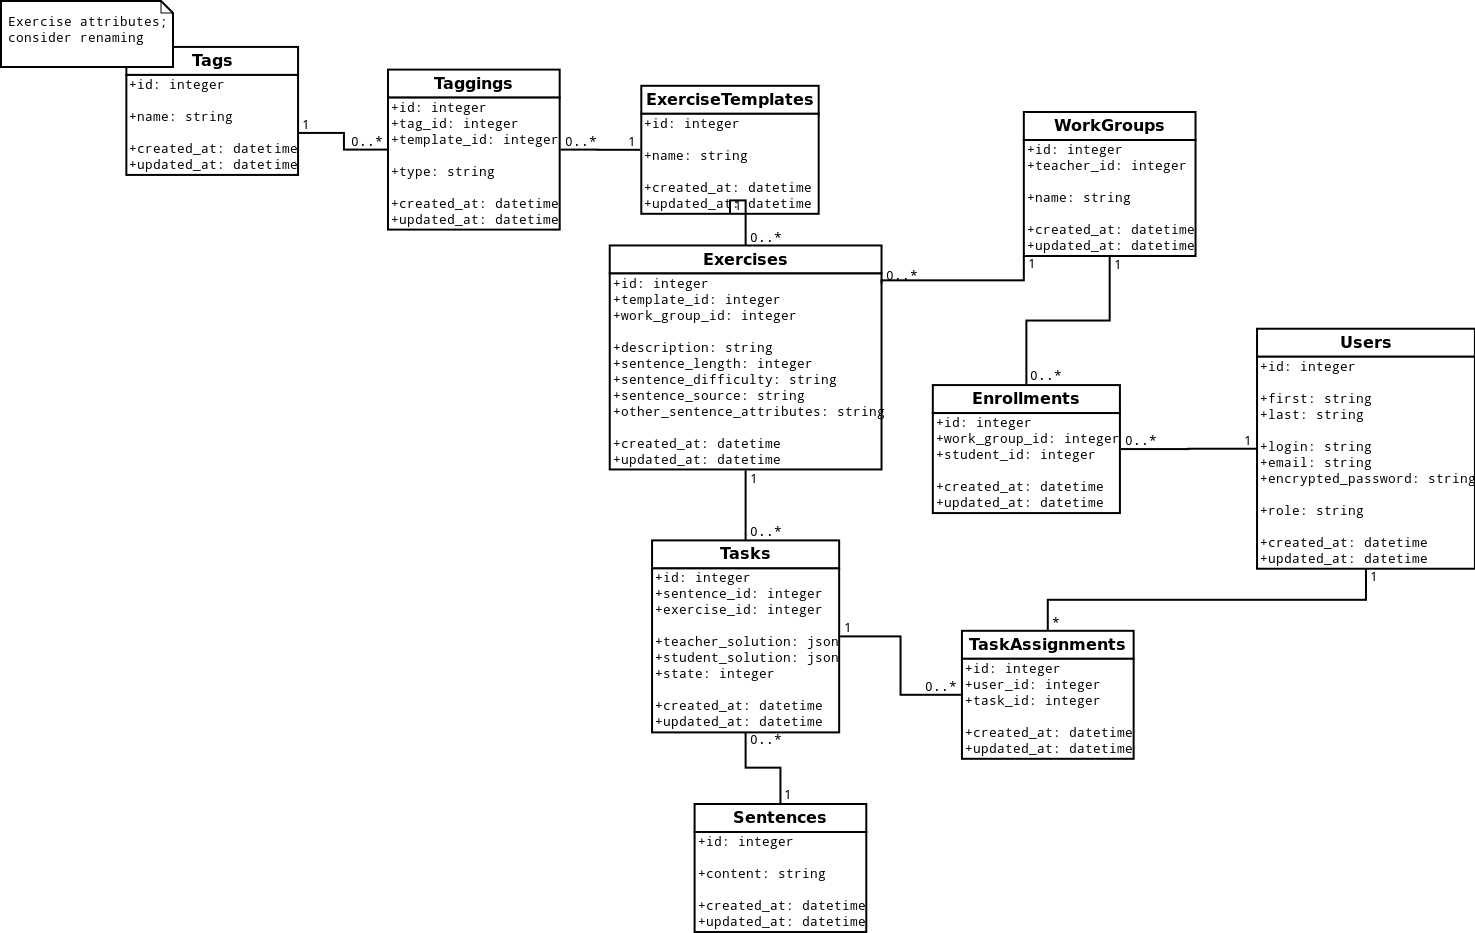
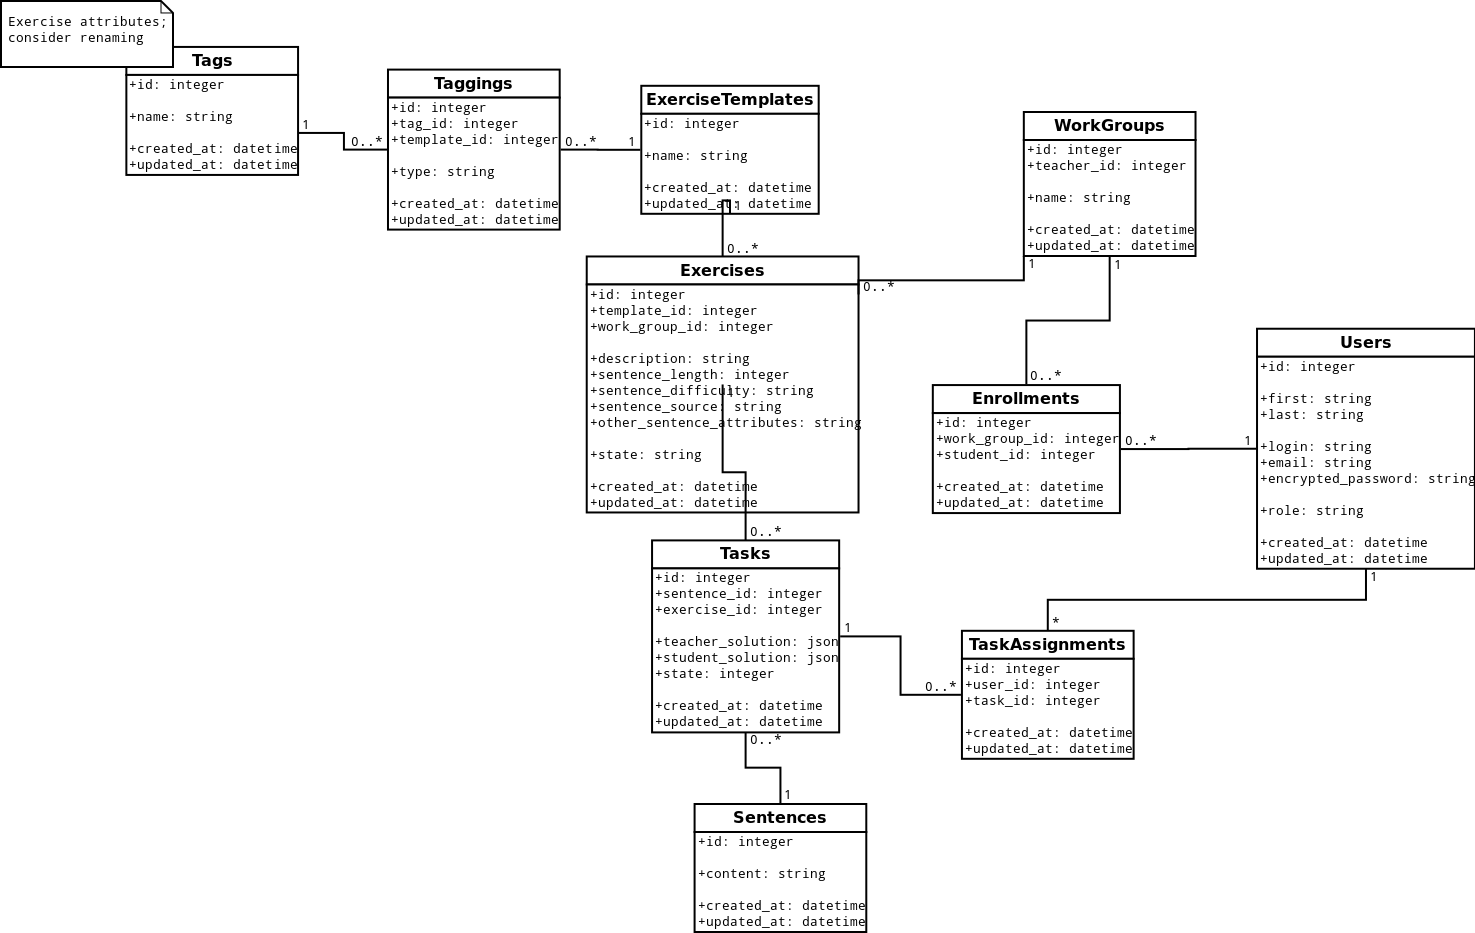
Add state to exercises

Changed region(s): [[0.4054, 0.2487, 0.6237, 0.5595]]

diff --git a/db/migrate/20140815132432_add_state_to_exercise.rb b/db/migrate/20140815132432_add_state_to_exercise.rb
@@ -1,0 +1,5 @@
+class AddStateToExercise < ActiveRecord::Migration
+  def change
+    add_column :exercises, :state, :string, null: false, default: ''
+  end
+end
